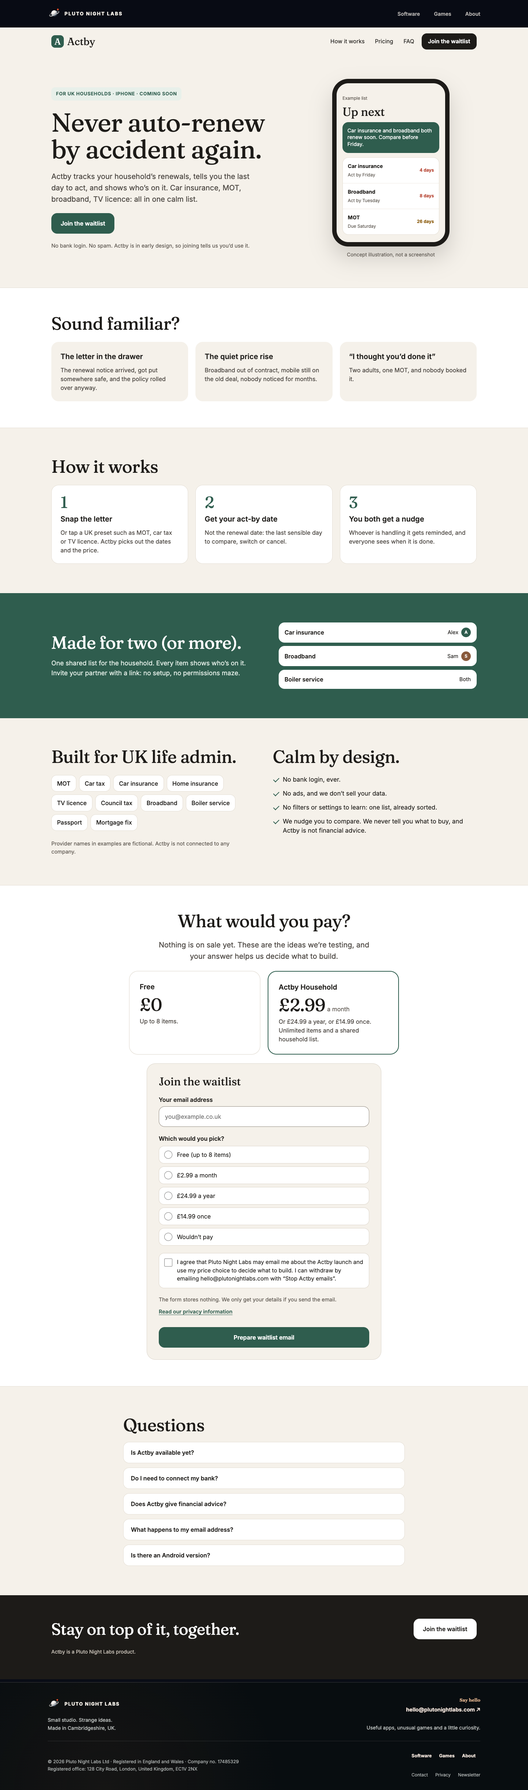
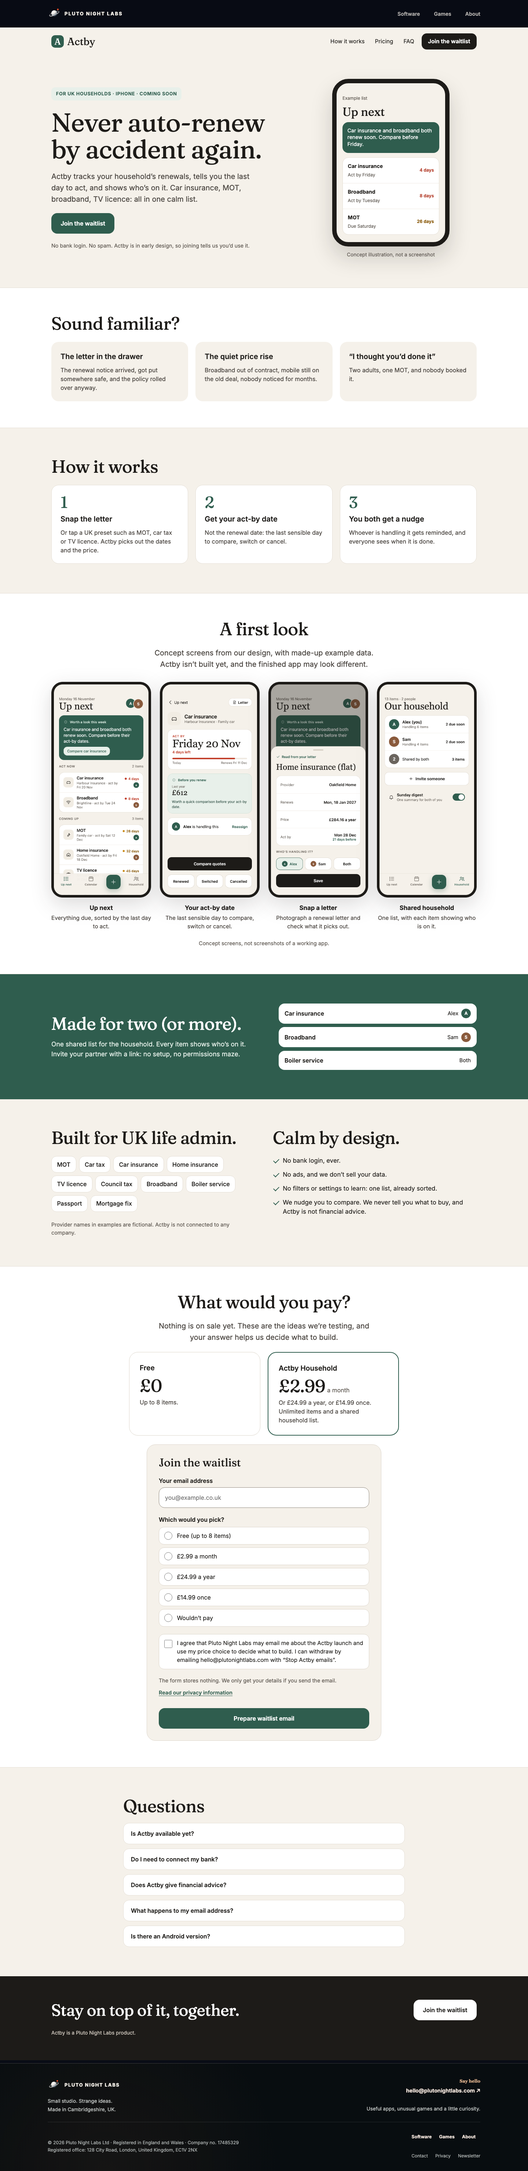
feat: add Actby concept screens to the landing page
Four concept screens (Up next, act-by date, snap a letter, household)
rendered from the owner's design prototype with real brands and example
statistics removed, in a 'A first look' section labelled as concept
screens with made-up data. Prototype source kept in docs/actby-concept/
as provenance; scripts/actby-concept-screens.mjs regenerates the images.
QA script now uses the cached headless shell so it no longer opens real
Mail drafts. Not deployed.

diff --git a/docs/actby-concept/prototype-source.html b/docs/actby-concept/prototype-source.html
@@ -1,0 +1,270 @@
+<!DOCTYPE html>
+<!-- Provenance: copy of the owner's Claude artifact "Actby — Clickable Prototype" (https://claude.ai/artifact/QCkFew1jjdgZ7UNWwXKLSs), version 1794833743-83df, copied 2026-11-16.
+     Design reference only. NOT production code and NOT served by the site. All data is made up.
+     scripts/actby-concept-screens.mjs renders the website concept screens from a sanitised in-memory copy of this file
+     (real car model and calendar brand removed, example statistics hidden, local fonts). -->
+<html lang="en-GB">
+<head>
+<meta charset="utf-8">
+<meta name="viewport" content="width=device-width, initial-scale=1">
+<title>Actby — Clickable Prototype</title>
+<link rel="stylesheet" href="https://fonts.googleapis.com/css2?family=Instrument+Serif&family=Inter:wght@400;500;600;700&display=swap">
+<style id="st">
+*{box-sizing:border-box}
+body{margin:0;min-height:100vh;background:#E9E4DB;font-family:Inter,system-ui,sans-serif;color:#1D1B18;display:flex;flex-direction:column;align-items:center;gap:16px;padding:24px 12px}
+.intro{max-width:390px;text-align:center;font-size:14px;color:#4A4540;line-height:1.45}
+.intro b{color:#1D1B18}
+.themes{display:flex;gap:8px;flex-wrap:wrap;justify-content:center}
+.tbtn{font:600 13px Inter,system-ui,sans-serif;padding:10px 14px;border-radius:12px;border:1px solid #CFC9BF;background:#fff;color:#1D1B18;cursor:pointer;display:flex;align-items:center;gap:8px;min-height:44px}
+.tbtn.on{border:2px solid #1D1B18}
+.sw{width:14px;height:14px;border-radius:50%;display:inline-block}
+.phone{width:390px;max-width:100%;height:844px;background:#F5F1EA;border-radius:44px;border:10px solid #1D1B18;position:relative;overflow:hidden;box-shadow:0 30px 60px rgba(29,27,24,.18)}
+.scr{position:absolute;inset:0;overflow-y:auto;padding:48px 20px 110px;display:flex;flex-direction:column;gap:16px}
+.serif{font-family:'Instrument Serif',Georgia,serif;font-weight:400}
+.muted{color:#6B655E}
+h1{margin:0;font-size:38px;line-height:1.05}
+.card{background:#fff;border:1px solid #E4DED4;border-radius:20px}
+button{font-family:inherit;color:inherit}
+.row{all:unset;box-sizing:border-box;display:flex;align-items:center;gap:12px;width:100%;min-height:68px;padding:12px 16px;cursor:pointer}
+.row+.row{border-top:1px solid #EFEAE2}
+.row:focus-visible,.btn:focus-visible,.chip:focus-visible,.tab:focus-visible{outline:2px solid #2F5D4E;outline-offset:2px}
+.ic{width:40px;height:40px;border-radius:12px;background:#F1ECE3;display:flex;align-items:center;justify-content:center;flex:none}
+.dot{width:8px;height:8px;border-radius:50%;flex:none;display:inline-block}
+.av{border-radius:50%;display:inline-flex;align-items:center;justify-content:center;font-weight:600;color:#fff;flex:none}
+.label{font-size:12px;font-weight:600;letter-spacing:.06em;text-transform:uppercase;color:#6B655E}
+.chip{all:unset;box-sizing:border-box;display:inline-flex;align-items:center;gap:6px;height:38px;padding:0 14px;border-radius:14px;background:#fff;border:1px solid #E4DED4;font-size:14px;font-weight:500;cursor:pointer}
+.btn{all:unset;box-sizing:border-box;display:flex;align-items:center;justify-content:center;gap:8px;height:52px;border-radius:16px;font-size:16px;font-weight:600;cursor:pointer;text-align:center}
+.ink{background:#1D1B18;color:#fff}
+.line{background:#fff;border:1px solid #DCD5CA}
+.sel{background:#E8F0EA;color:#2F5D4E;border:1.5px solid #2F5D4E}
+.tabbar{position:absolute;left:0;right:0;bottom:0;height:84px;background:rgba(245,241,234,.97);border-top:1px solid #E4DED4;display:flex;justify-content:space-around;align-items:flex-start;padding-top:8px;z-index:5}
+.tab{all:unset;display:flex;flex-direction:column;align-items:center;gap:3px;font-size:11px;font-weight:500;color:#6B655E;min-width:72px;min-height:44px;cursor:pointer}
+.tab.on{color:#2F5D4E}
+.add{all:unset;width:56px;height:56px;border-radius:18px;background:#2F5D4E;display:flex;align-items:center;justify-content:center;margin-top:-4px;box-shadow:0 8px 20px rgba(47,93,78,.3);cursor:pointer}
+.back{all:unset;display:flex;align-items:center;gap:4px;font-size:15px;min-height:44px;cursor:pointer}
+.overlay{position:absolute;inset:0;background:rgba(29,27,24,.35);z-index:10;display:flex;align-items:flex-end;animation:fade .2s}
+.sheet{width:100%;background:#F5F1EA;border-radius:28px 28px 0 0;padding:12px 20px 30px;display:flex;flex-direction:column;gap:16px;max-height:92%;overflow-y:auto;animation:up .25s ease-out}
+.grab{width:40px;height:5px;border-radius:3px;background:#D6CFC4;align-self:center}
+.toast{position:absolute;left:20px;right:20px;bottom:100px;background:#1D1B18;color:#fff;border-radius:16px;padding:14px 16px;font-size:14px;z-index:20;display:flex;gap:10px;align-items:center;animation:up .25s}
+@keyframes up{from{transform:translateY(40px);opacity:0}to{transform:none;opacity:1}}
+@keyframes fade{from{opacity:0}to{opacity:1}}
+.scan{height:4px;border-radius:2px;background:#E4DED4;overflow:hidden}
+.scan i{display:block;height:100%;width:40%;background:#2F5D4E;animation:sc 1s linear infinite}
+@keyframes sc{from{transform:translateX(-100%)}to{transform:translateX(250%)}}
+.calgrid{display:grid;grid-template-columns:repeat(7,minmax(0,1fr));gap:2px}
+.day{all:unset;display:flex;flex-direction:column;align-items:center;justify-content:center;gap:3px;min-height:46px;border-radius:14px;font-size:15px;cursor:pointer}
+.switch{width:48px;height:28px;border-radius:14px;background:#2F5D4E;position:relative;border:none;cursor:pointer;flex:none}
+.switch span{position:absolute;right:3px;top:3px;width:22px;height:22px;border-radius:50%;background:#fff;transition:.2s}
+.switch.off{background:#CFC9BF}.switch.off span{right:23px}
+</style>
+</head>
+<body>
+<p class="intro"><b>Actby prototype.</b> Tap an item, mark it done, add something with <b>+</b>, try the calendar and household tabs. All data is made up.</p>
+<div class="themes" role="group" aria-label="Appearance">
+<button class="tbtn on" data-theme="paper"><span class="sw" style="background:#2F5D4E"></span>Light</button>
+<button class="tbtn" data-theme="midnight"><span class="sw" style="background:#E9C877;box-shadow:inset 0 0 0 4px #14161B"></span>Dark</button>
+</div>
+<div class="phone" id="phone" aria-live="polite"></div>
+<script>
+const TODAY = new Date(2026,10,16);
+const DAY = 864e5;
+const C = {red:'#C2412D', amb:'#C98A1B', ambText:'#8A5A0B', grn:'#4F8A63', moss:'#2F5D4E'};
+const PEOPLE = {A:{name:'Alex',col:'#2F5D4E'}, S:{name:'Sam',col:'#8A5A3C'}, B:{name:'Both',col:'#6B655E'}};
+const ICONS = {
+ car:'<path d="M5 17h14M6 17v2M18 17v2M4 13l2-5h12l2 5v4H4z"/>',
+ wifi:'<path d="M3 9a14 14 0 0 1 18 0M6 12.5a9 9 0 0 1 12 0M9 16a4 4 0 0 1 6 0"/><circle cx="12" cy="19" r=".8"/>',
+ wrench:'<path d="M14 6a4 4 0 0 0 5 5l-8 8a2 2 0 0 1-3-3l8-8a4 4 0 0 0-2-2z"/>',
+ home:'<path d="M4 11l8-6 8 6v8H4z"/><path d="M10 19v-5h4v5"/>',
+ tv:'<rect x="3" y="6" width="18" height="12" rx="2"/><path d="M9 3l3 3 3-3"/>',
+ bolt:'<path d="M13 3L5 14h6l-1 7 8-11h-6z"/>',
+ phone:'<rect x="7" y="3" width="10" height="18" rx="2"/><path d="M11 18h2"/>',
+ passport:'<rect x="5" y="3" width="14" height="18" rx="2"/><circle cx="12" cy="10" r="3"/><path d="M9 16h6"/>',
+ flame:'<path d="M12 3c3 4 5 6 5 10a5 5 0 0 1-10 0c0-2 1-3 2-4 0 2 1 3 2 3 0-3-1-5 1-9z"/>',
+ bank:'<path d="M3 10l9-6 9 6M5 10v8M19 10v8M9 10v8M15 10v8M3 20h18"/>',
+ paw:'<circle cx="8" cy="8" r="1.6"/><circle cx="16" cy="8" r="1.6"/><circle cx="5" cy="13" r="1.6"/><circle cx="19" cy="13" r="1.6"/><path d="M12 12c3 0 5 4 4 6s-6 2-8 0 1-6 4-6z"/>',
+ council:'<path d="M4 20h16M6 20V10M18 20V10M10 20v-6h4v6M3 10l9-6 9 6z"/>',
+ shield:'<path d="M12 3l7 3v6c0 4-3 7-7 9-4-2-7-5-7-9V6z"/>',
+ camera:'<path d="M4 8h3l2-2h6l2 2h3v11H4z"/><circle cx="12" cy="13" r="3.5"/>',
+ plus:'<path d="M12 5v14M5 12h14"/>', cal:'<rect x="4" y="5" width="16" height="15" rx="2"/><path d="M4 10h16M9 3v4M15 3v4"/>',
+ people:'<circle cx="9" cy="8" r="3"/><circle cx="17" cy="9" r="2.5"/><path d="M3 19c0-3 3-5 6-5s6 2 6 5M15 14.5c2.5 0 6 1.3 6 4.5"/>',
+ list:'<path d="M9 6h11M9 12h11M9 18h11"/><circle cx="4.5" cy="6" r=".9"/><circle cx="4.5" cy="12" r=".9"/><circle cx="4.5" cy="18" r=".9"/>',
+ back:'<path d="M15 5l-7 7 7 7"/>', chev:'<path d="M9 5l7 7-7 7"/>', check:'<path d="M5 12l5 5 9-10"/>',
+ spark:'<path d="M12 3v4M12 17v4M3 12h4M17 12h4M6 6l2.5 2.5M15.5 15.5L18 18M6 18l2.5-2.5M15.5 8.5L18 6"/>',
+ lock:'<rect x="5" y="11" width="14" height="9" rx="2"/><path d="M8 11V8a4 4 0 0 1 8 0v3"/>',
+ bell:'<path d="M6 16V11a6 6 0 0 1 12 0v5l2 2H4z"/><path d="M10 20a2 2 0 0 0 4 0"/>',
+ close:'<path d="M6 6l12 12M18 6L6 18"/>', link:'<path d="M10 14a4 4 0 0 0 6 0l3-3a4 4 0 0 0-6-6l-1 1M14 10a4 4 0 0 0-6 0l-3 3a4 4 0 0 0 6 6l1-1"/>',
+ doc:'<path d="M6 3h8l4 4v14H6z"/><path d="M14 3v4h4M9 12h6M9 16h6"/>'
+};
+const ic=(n,c='#1D1B18',s=20)=>`<svg width="${s}" height="${s}" viewBox="0 0 24 24" fill="none" stroke="${c}" stroke-width="1.6" stroke-linecap="round" stroke-linejoin="round" aria-hidden="true">${ICONS[n]}</svg>`;
+const av=(k,s=24)=>`<span class="av" style="background:${PEOPLE[k].col};width:${s}px;height:${s}px;font-size:${Math.round(s*.42)}px">${k==='B'?'2':k}</span>`;
+const d=(y,m,dd)=>new Date(y,m-1,dd);
+const fmt=(dt,o={weekday:'short',day:'numeric',month:'short'})=>dt.toLocaleDateString('en-GB',o);
+const days=dt=>Math.round((dt-TODAY)/DAY);
+const money=n=>'£'+n.toLocaleString('en-GB',{minimumFractionDigits:n%1?2:0,maximumFractionDigits:2});
+
+let items=[
+ {id:1,ic:'car',name:'Car insurance',prov:'Harbour Insurance',note:'Ford Fiesta',renew:d(2026,12,11),actBy:d(2026,11,20),last:612,quote:689,who:'A'},
+ {id:2,ic:'wifi',name:'Broadband',prov:'Brightline',note:'Contract ends',renew:d(2026,11,30),actBy:d(2026,11,24),last:474,quote:540,who:'S'},
+ {id:3,ic:'wrench',name:'MOT',prov:'Ford Fiesta',note:'Book a garage',renew:d(2027,1,11),actBy:d(2026,12,12),who:'A'},
+ {id:4,ic:'home',name:'Home insurance',prov:'Oakfield Home',note:'Buildings & contents',renew:d(2027,1,8),actBy:d(2026,12,18),last:268,who:'S'},
+ {id:5,ic:'tv',name:'TV licence',prov:'Annual licence',note:'',renew:d(2027,1,31),actBy:d(2026,12,31),last:174.5,who:'B'},
+ {id:6,ic:'flame',name:'Boiler service',prov:'Annual service',note:'',renew:d(2027,2,10),actBy:d(2027,1,27),who:'B'},
+ {id:7,ic:'phone',name:'Mobile (Alex)',prov:'Northwave Mobile',note:'',renew:d(2027,3,4),actBy:d(2027,2,4),last:216,who:'A'},
+ {id:8,ic:'bolt',name:'Energy',prov:'Lumen Energy',note:'Fixed tariff ends',renew:d(2027,4,1),actBy:d(2027,3,4),who:'S'},
+ {id:9,ic:'car',name:'Car tax',prov:'Ford Fiesta',note:'',renew:d(2027,5,1),actBy:d(2027,4,24),who:'A'},
+ {id:10,ic:'passport',name:'Passport (Sam)',prov:'Expires',note:'',renew:d(2027,9,14),actBy:d(2027,6,14),who:'S'},
+ {id:11,ic:'paw',name:'Pet insurance',prov:'Willow Pet Cover',note:'',renew:d(2027,6,2),actBy:d(2027,5,12),last:221,who:'A'},
+ {id:12,ic:'council',name:'Council tax',prov:'Annual bill',note:'',renew:d(2027,4,1),actBy:d(2027,3,20),who:'B'},
+ {id:13,ic:'shield',name:'Breakdown cover',prov:'Roadside Plus',note:'',renew:d(2027,7,9),actBy:d(2027,6,18),last:96,who:'A'},
+];
+let state={tab:'home',view:null,sheet:null,showClear:false,calDay:20,digest:true,scan:null,toast:null,nextId:20};
+const urg=it=>{const n=days(it.actBy);return n<=14?'red':n<=45?'amb':'grn'};
+const col=it=>({red:C.red,amb:C.amb,grn:C.grn})[urg(it)];
+const tcol=it=>({red:C.red,amb:C.ambText,grn:C.grn})[urg(it)];
+const left=it=>{const n=days(it.actBy);return n<=0?'Today':n===1?'1 day':n+' days'};
+
+function row(it){return `<button class="row" data-open="${it.id}"><span class="ic">${ic(it.ic)}</span>
+<span style="flex:1;min-width:0;display:flex;flex-direction:column;gap:3px;text-align:left"><span style="font-size:16px;font-weight:600">${it.name}</span><span class="muted" style="font-size:13px">${it.prov} · act by ${fmt(it.actBy)}</span></span>
+<span style="display:flex;flex-direction:column;align-items:flex-end;gap:6px"><span style="display:flex;align-items:center;gap:6px;font-size:13px;font-weight:600;color:${tcol(it)}"><span class="dot" style="background:${col(it)}"></span>${left(it)}</span>${av(it.who,22)}</span></button>`}
+
+function tabbar(){const t=(k,i,l)=>`<button class="tab ${state.tab===k?'on':''}" data-tab="${k}">${ic(i,state.tab===k?C.moss:'#6B655E',24)}<span>${l}</span></button>`;
+ return `<nav class="tabbar" aria-label="Main">${t('home','list','Up next')}${t('cal','cal','Calendar')}<button class="add" data-sheet="add" aria-label="Add something">${ic('plus','#fff',26)}</button>${t('house','people','Household')}</nav>`}
+
+function home(){
+ const s=[...items].sort((a,b)=>a.actBy-b.actBy);
+ const red=s.filter(i=>urg(i)==='red'),amb=s.filter(i=>urg(i)==='amb'),grn=s.filter(i=>urg(i)==='grn');
+ const pricey=red.filter(i=>i.last);const tot=pricey.reduce((a,i)=>a+i.last,0);
+ const prompt=pricey.length?`<section class="card" style="background:${C.moss};border:none;padding:18px;color:#fff;display:flex;flex-direction:column;gap:10px">
+ <div style="display:flex;align-items:center;gap:8px;font-size:13px;font-weight:600;color:#CFE2D8">${ic('spark','#CFE2D8',16)}Worth a look this week</div>
+ <div style="font-size:17px;line-height:1.35">${pricey.map(i=>i.name.toLowerCase()).join(' and ').replace(/^./,c=>c.toUpperCase())} cost you <span class="serif" style="font-size:24px">${money(tot)}</span> last year. Compare before their act-by dates.</div>
+ <div style="display:flex;gap:8px"><button class="chip" style="background:#E8F0EA;border:none;color:${C.moss};height:34px" data-open="${pricey[0].id}">Compare ${pricey[0].name.toLowerCase()}</button></div></section>`:
+ `<section class="card" style="padding:18px;display:flex;gap:12px;align-items:center">${ic('check',C.grn,24)}<span style="font-size:15px">Nothing urgent. Enjoy your week.</span></section>`;
+ const grp=(lbl,arr)=>arr.length?`<div style="display:flex;justify-content:space-between;align-items:baseline"><span class="label">${lbl}</span><span class="muted" style="font-size:13px">${arr.length} item${arr.length>1?'s':''}</span></div><div class="card">${arr.map(row).join('')}</div>`:'';
+ const firstClear=grn[0]?fmt(grn[0].actBy,{month:'long'}):'';
+ return `<div class="scr"><header style="display:flex;justify-content:space-between;align-items:center"><div><div class="muted" style="font-size:14px">Monday 16 November</div><h1 class="serif">Up next</h1></div><div style="display:flex">${av('A',36)}<span style="margin-left:-8px;border:2px solid #F5F1EA;border-radius:50%;display:flex">${av('S',36)}</span></div></header>
+ ${prompt}${grp('Act now',red)}${grp('Coming up',amb)}
+ ${grn.length?(state.showClear?grp('All clear',grn):`<button class="row card" data-clear style="min-height:52px;justify-content:space-between"><span style="display:flex;align-items:center;gap:10px;font-size:15px;font-weight:500"><span class="dot" style="background:${C.grn}"></span>${grn.length} more, all clear until ${firstClear}</span>${ic('chev','#6B655E',18)}</button>`):''}
+ </div>${tabbar()}`}
+
+function detail(it){
+ const n=days(it.actBy);const total=Math.max(days(it.renew),1);const pct=Math.min(100,Math.max(4,(1-n/total)*100));
+ const diff=it.quote&&it.last?Math.round((it.quote-it.last)/it.last*100):null;
+ const save=it.last?`<section class="card" style="padding:16px;background:#E8F0EA;border-color:#D3E3D9;display:flex;flex-direction:column;gap:10px">
+ <div style="display:flex;align-items:center;gap:8px;font-size:13px;font-weight:600;color:${C.moss}">${ic('spark',C.moss,16)}Before you renew</div>
+ <div style="display:flex;gap:24px"><div><div class="muted" style="font-size:12px">Last year</div><div class="serif" style="font-size:28px">${money(it.last)}</div></div>${it.quote?`<div><div class="muted" style="font-size:12px">Renewal quote</div><div class="serif" style="font-size:28px">${money(it.quote)} <span style="font-family:Inter;font-size:13px;font-weight:600;color:${diff>0?C.red:C.grn}">${diff>0?'+':''}${diff}%</span></div></div>`:''}</div>
+ <div style="font-size:14px;line-height:1.4;color:#24453A">${diff>0?'Your renewal quote is higher than last year. Worth getting a couple of quotes before your act-by date.':'Worth a quick comparison before your act-by date.'}</div></section>`:'';
+ return `<div class="scr" style="padding-bottom:28px"><div style="display:flex;justify-content:space-between;align-items:center"><button class="back" data-back>${ic('back','#1D1B18',22)}Up next</button><span class="chip" style="height:32px;cursor:default">${ic('doc','#1D1B18',16)}Letter</span></div>
+ <div style="display:flex;gap:14px;align-items:center"><span class="ic" style="width:52px;height:52px;border-radius:16px">${ic(it.ic,'#1D1B18',26)}</span><div><div style="font-size:20px;font-weight:600">${it.name}</div><div class="muted" style="font-size:14px">${it.prov}${it.note?' · '+it.note:''}</div></div></div>
+ <section class="card" style="padding:18px;display:flex;flex-direction:column;gap:14px"><div><div class="label" style="color:${tcol(it)}">Act by</div><div class="serif" style="font-size:42px;line-height:1">${fmt(it.actBy,{weekday:'long',day:'numeric',month:'short'})}</div><div style="font-size:14px;font-weight:600;color:${tcol(it)};margin-top:4px">${left(it)} left</div></div>
+ <div><div style="height:6px;border-radius:3px;background:#EFEAE2;position:relative"><div style="position:absolute;left:0;top:0;bottom:0;width:${pct}%;background:${col(it)};border-radius:3px"></div></div><div style="display:flex;justify-content:space-between;font-size:12px;margin-top:6px" class="muted"><span>Today</span><span>Renews ${fmt(it.renew)}</span></div></div></section>
+ ${save}
+ <div class="card"><button class="row" data-reassign="${it.id}">${av(it.who,32)}<span style="flex:1;font-size:15px;text-align:left">${it.who==='B'?'<b>Both of you</b> are on this':`<b>${PEOPLE[it.who].name}</b> is handling this`}</span><span style="font-size:14px;font-weight:600;color:${C.moss}">Reassign</span></button></div>
+ <div style="flex:1"></div>
+ <button class="btn ink" data-compare="${it.id}">${it.last?'Compare quotes':'Book it'}</button>
+ <div style="display:grid;grid-template-columns:repeat(3,minmax(0,1fr));gap:8px"><button class="btn line" style="font-size:14px" data-done="Renewed">Renewed</button><button class="btn line" style="font-size:14px" data-done="Switched">Switched</button><button class="btn line" style="font-size:14px" data-done="Cancelled">Cancelled</button></div></div>`}
+
+function cal(){
+ const first=new Date(2026,10,1).getDay();const blanks=(first+6)%7;let cells='';
+ for(let i=0;i<blanks;i++)cells+='<span></span>';
+ for(let dd=1;dd<=30;dd++){const its=items.filter(i=>i.actBy.getFullYear()===2026&&i.actBy.getMonth()===10&&i.actBy.getDate()===dd);
+  const sel=dd===state.calDay,today=dd===16;
+  cells+=`<button class="day" data-day="${dd}" aria-label="${dd} November${its.length?', '+its.length+' item':''}" style="${sel?'background:#1D1B18;color:#fff;':today?'box-shadow:inset 0 0 0 1.5px '+C.moss+';':''}"><span>${dd}</span>${its.length?`<span class="dot" style="width:6px;height:6px;background:${sel?'#fff':col(its[0])}"></span>`:'<span style="height:6px"></span>'}</button>`}
+ const dayItems=items.filter(i=>i.actBy.getFullYear()===2026&&i.actBy.getMonth()===10&&i.actBy.getDate()===state.calDay);
+ const nextDec=items.filter(i=>i.actBy.getMonth()===11&&i.actBy.getFullYear()===2026).sort((a,b)=>a.actBy-b.actBy);
+ return `<div class="scr"><header style="display:flex;justify-content:space-between;align-items:flex-end"><h1 class="serif">November</h1><span class="muted" style="font-size:14px;padding-bottom:6px">2026</span></header>
+ <div class="card" style="padding:14px 10px"><div class="calgrid" style="margin-bottom:6px">${['M','T','W','T','F','S','S'].map(x=>`<span class="muted" style="text-align:center;font-size:12px;font-weight:600">${x}</span>`).join('')}</div><div class="calgrid">${cells}</div></div>
+ <div class="label">${fmt(new Date(2026,10,state.calDay),{weekday:'long',day:'numeric',month:'long'})}</div>
+ ${dayItems.length?`<div class="card">${dayItems.map(row).join('')}</div>`:`<div class="card" style="padding:16px" ><span class="muted" style="font-size:14px">Nothing due. Tap a day with a dot.</span></div>`}
+ ${nextDec.length?`<div class="label">Next in December</div><div class="card">${nextDec.map(row).join('')}</div>`:''}
+ <div class="row card" style="cursor:default;min-height:52px">${ic('link',C.moss,18)}<span style="flex:1;font-size:14px">Synced to Apple Calendar</span><span class="muted" style="font-size:13px">Both of you</span></div></div>${tabbar()}`}
+
+function house(){
+ const cnt=k=>items.filter(i=>i.who===k).length,soon=k=>items.filter(i=>i.who===k&&urg(i)!=='grn').length;
+ const m=(k,n)=>`<div class="row" style="cursor:default">${av(k,40)}<span style="flex:1;display:flex;flex-direction:column;gap:2px"><span style="font-size:16px;font-weight:600">${n}</span><span class="muted" style="font-size:13px">Handling ${cnt(k)} items</span></span><span style="font-size:14px;font-weight:600">${soon(k)} due soon</span></div>`;
+ return `<div class="scr"><header><div class="muted" style="font-size:14px">${items.length} items · 2 people</div><h1 class="serif">Our household</h1></header>
+ <div class="card">${m('A','Alex (you)')}${m('S','Sam')}<div class="row" style="cursor:default">${av('B',40)}<span style="flex:1;font-size:15px">Shared by both</span><span style="font-size:14px;font-weight:600">${cnt('B')} items</span></div></div>
+ <button class="btn line" data-invite>${ic('plus','#1D1B18',18)}Invite someone</button>
+ <div class="label">This year so far</div>
+ <div style="display:grid;grid-template-columns:repeat(2,minmax(0,1fr));gap:10px"><div class="card" style="padding:16px"><div class="serif" style="font-size:34px">11</div><div class="muted" style="font-size:13px">renewals handled on time</div></div><div class="card" style="padding:16px"><div class="serif" style="font-size:34px">3</div><div class="muted" style="font-size:13px">switched to a new provider</div></div></div>
+ <div class="row card" style="cursor:default;min-height:60px">${ic('bell','#1D1B18',20)}<span style="flex:1;display:flex;flex-direction:column;gap:2px"><span style="font-size:15px;font-weight:600">Sunday digest</span><span class="muted" style="font-size:13px">One summary for both of you</span></span><button class="switch ${state.digest?'':'off'}" role="switch" aria-checked="${state.digest}" aria-label="Sunday digest" data-digest><span></span></button></div></div>${tabbar()}`}
+
+const PRESETS=[['car','Car insurance',21],['wrench','MOT',30],['car','Car tax',14],['home','Home insurance',21],['bolt','Energy',30],['wifi','Broadband',30],['phone','Mobile',30],['tv','TV licence',30],['council','Council tax',14],['flame','Boiler service',21],['passport','Passport',90],['paw','Pet insurance',21],['shield','Breakdown',21],['bank','Mortgage fix',180]];
+function addSheet(){return `<div class="overlay" data-dismiss><div class="sheet" role="dialog" aria-label="Add something"><div class="grab"></div>
+ <div style="display:flex;justify-content:space-between;align-items:center"><h2 class="serif" style="margin:0;font-size:32px">Add something</h2><button class="back" data-close aria-label="Close">${ic('close','#1D1B18',22)}</button></div>
+ <button class="btn" data-snap style="height:auto;background:#1D1B18;border-radius:22px;padding:20px;justify-content:flex-start;gap:16px"><span style="width:56px;height:56px;border-radius:16px;background:${C.moss};display:flex;align-items:center;justify-content:center">${ic('camera','#fff',28)}</span><span style="display:flex;flex-direction:column;gap:4px;color:#fff;text-align:left"><span style="font-size:18px">Snap a letter</span><span style="font-size:14px;font-weight:400;color:#CFC9BF">We'll read the dates and price for you</span></span></button>
+ <div class="label">Or pick one</div><div style="display:flex;flex-wrap:wrap;gap:8px">${PRESETS.map((p,i)=>`<button class="chip" data-preset="${i}">${ic(p[0],'#1D1B18',16)}${p[1]}</button>`).join('')}</div></div></div>`}
+
+function confirmSheet(){const s=state.scan;
+ if(s.reading)return `<div class="overlay"><div class="sheet" style="min-height:360px;justify-content:center;align-items:center;text-align:center"><div style="width:120px;height:150px;border-radius:12px;background:#fff;border:1px solid #E4DED4;padding:12px;display:flex;flex-direction:column;gap:7px;transform:rotate(-3deg)" aria-hidden="true"><div style="height:8px;width:60%;background:${C.moss};border-radius:2px"></div><div style="height:4px;background:#E4DED4"></div><div style="height:4px;background:#E4DED4"></div><div style="height:4px;width:70%;background:#E4DED4"></div></div><div style="font-size:16px;font-weight:600">Reading your letter…</div><div class="scan" style="width:160px"><i></i></div></div></div>`;
+ return `<div class="overlay"><div class="sheet" role="dialog" aria-label="Check and save"><div class="grab"></div>
+ <div style="display:flex;align-items:center;gap:6px;font-size:13px;font-weight:600;color:${C.moss}">${ic('check',C.moss,16)}${s.fromSnap?'Read from your letter':'Pre-filled for you'}</div>
+ <h2 class="serif" style="margin:0;font-size:32px;line-height:1.05">${s.name}</h2>
+ <div class="card">${[['Provider',s.prov],['Renews',fmt(s.renew,{weekday:'short',day:'numeric',month:'short',year:'numeric'})],['Price',s.last?money(s.last)+' a year':'Add later'],['Act by',fmt(s.actBy)+`<div style="font-size:13px;font-weight:600;color:${C.moss}">${s.lead} days before</div>`]].map(([l,v])=>`<div class="row" style="cursor:default;justify-content:space-between"><span class="muted" style="font-size:14px">${l}</span><span style="font-size:15px;font-weight:600;text-align:right">${v}</span></div>`).join('')}</div>
+ <div class="label">Who's handling it?</div>
+ <div style="display:grid;grid-template-columns:repeat(3,minmax(0,1fr));gap:8px">${['A','S','B'].map(k=>`<button class="btn ${s.who===k?'sel':'line'}" style="height:48px;font-size:14px" data-who="${k}">${k!=='B'?av(k,22):''}${PEOPLE[k].name}</button>`).join('')}</div>
+ <button class="btn ink" data-save>Save</button></div></div>`}
+
+function render(){
+ const p=document.getElementById('phone');let h='';
+ if(state.view){const it=items.find(i=>i.id===state.view);h=it?detail(it):home()}
+ else h=state.tab==='home'?home():state.tab==='cal'?cal():house();
+ if(state.sheet==='add')h+=addSheet();
+ if(state.sheet==='confirm')h+=confirmSheet();
+ if(state.sheet==='compare')h+=`<div class="overlay" data-dismiss><div class="sheet" role="dialog"><div class="grab"></div><h2 class="serif" style="margin:0;font-size:30px">Compare quotes</h2><p style="margin:0;line-height:1.5;color:#4A4540">In the real app this opens your chosen comparison site with your details ready. Actby never recommends a provider.</p><button class="btn ink" data-close>Got it</button></div></div>`;
+ if(state.sheet==='invite')h+=`<div class="overlay" data-dismiss><div class="sheet" role="dialog"><div class="grab"></div><h2 class="serif" style="margin:0;font-size:30px">Invite to your household</h2><div class="card" style="padding:16px;font-size:15px;word-break:break-all">actby.app/join/7Q4-OAK</div><p style="margin:0;color:#4A4540">Send this link. They'll see the same list straight away.</p><button class="btn ink" data-close>Done</button></div></div>`;
+ if(state.toast&&!state.sheet)h+=`<div class="toast">${ic('check','#fff',18)}<span>${state.toast}</span></div>`;
+ p.innerHTML=themed(h);
+}
+function toast(msg){state.toast=msg;render();clearTimeout(window._t);window._t=setTimeout(()=>{state.toast=null;render()},2600)}
+
+document.getElementById('phone').addEventListener('click',e=>{
+ const t=e.target.closest('[data-open],[data-tab],[data-sheet],[data-back],[data-clear],[data-done],[data-reassign],[data-compare],[data-close],[data-snap],[data-preset],[data-who],[data-save],[data-day],[data-digest],[data-invite],[data-dismiss]');
+ if(!t)return;const ds=t.dataset;
+ if('dismiss' in ds && e.target!==t)return;
+ if(ds.open){state.view=+ds.open;state.sheet=null}
+ else if(ds.tab){state.tab=ds.tab;state.view=null}
+ else if(ds.sheet){state.sheet=ds.sheet}
+ else if('back' in ds){state.view=null}
+ else if('clear' in ds){state.showClear=true}
+ else if(ds.done){const it=items.find(i=>i.id===state.view);const y=new Date(it.renew);y.setFullYear(y.getFullYear()+1);const a=new Date(it.actBy);a.setFullYear(a.getFullYear()+1);it.renew=y;it.actBy=a;if(it.quote){it.last=it.quote;it.quote=null}state.view=null;toast(`${it.name} marked ${ds.done.toLowerCase()}. See you next ${fmt(a,{month:'long'})}.`);return}
+ else if(ds.reassign){const it=items.find(i=>i.id===+ds.reassign);it.who={A:'S',S:'B',B:'A'}[it.who];render();return}
+ else if(ds.compare){state.sheet='compare'}
+ else if('close' in ds||'dismiss' in ds){state.sheet=null}
+ else if('snap' in ds){const r=d(2027,1,18),a=new Date(r-21*DAY);state.scan={reading:true,fromSnap:true,ic:'home',name:'Home insurance (flat)',prov:'Oakfield Home',renew:r,actBy:a,lead:21,last:284.16,who:'A'};state.sheet='confirm';render();setTimeout(()=>{if(state.scan){state.scan.reading=false;render()}},1400);return}
+ else if(ds.preset){const p=PRESETS[+ds.preset];const r=new Date(TODAY.getTime()+120*DAY),a=new Date(r-p[2]*DAY);state.scan={reading:false,fromSnap:false,ic:p[0],name:p[1],prov:'Tap to add provider',renew:r,actBy:a,lead:p[2],last:null,who:'A'};state.sheet='confirm'}
+ else if(ds.who){state.scan.who=ds.who}
+ else if('save' in ds){const s=state.scan;items.push({id:state.nextId++,ic:s.ic,name:s.name,prov:s.prov,note:'',renew:s.renew,actBy:s.actBy,last:s.last,who:s.who});state.sheet=null;state.scan=null;state.tab='home';state.view=null;state.showClear=true;toast(`${s.name} added. ${PEOPLE[s.who].name==='Both'?'You both':PEOPLE[s.who].name} will get a nudge on ${fmt(new Date(s.actBy-7*DAY))}.`);return}
+ else if(ds.day){state.calDay=+ds.day}
+ else if('digest' in ds){state.digest=!state.digest}
+ else if('invite' in ds){state.sheet='invite'}
+ render();
+});
+
+const THEMES={paper:[],
+ harbour:[["#F5F1EA","#F1F4F7"],["#2F5D4E","#1F4E79"],["#CFE2D8","#CFE0F0"],["#E8F0EA","#E3EDF7"],["#D3E3D9","#CADBEC"],["#24453A","#183C5E"],["#1D1B18","#13202B"],["#6B655E","#56636F"],["#E4DED4","#DCE3EA"],["#EFEAE2","#EAEFF4"],["#F1ECE3","#E8EEF4"],["#DCD5CA","#D3DCE4"],["#D6CFC4","#CBD5DF"],["rgba(245,241,234,.97)","rgba(241,244,247,.97)"],["rgba(47,93,78,.3)","rgba(31,78,121,.3)"]],
+ plum:[["#F5F1EA","#F6F2EF"],["#2F5D4E","#5B3A6E"],["#CFE2D8","#E6D6EE"],["#E8F0EA","#F0E8F4"],["#D3E3D9","#E3D3EA"],["#24453A","#43294F"],["#1D1B18","#221B26"],["#6B655E","#695F6C"],["#E4DED4","#E6DDE2"],["#EFEAE2","#F0EAEC"],["#F1ECE3","#F1EAEE"],["#DCD5CA","#DDD2D8"],["#D6CFC4","#D8CCD3"],["rgba(245,241,234,.97)","rgba(246,242,239,.97)"],["rgba(47,93,78,.3)","rgba(91,58,110,.3)"]],
+ midnight:[
+  ["background:#2F5D4E;border:none;padding:18px;color:#fff","background:#2B3A4A;border:none;padding:18px;color:#F2EFE9"],
+  ["background:#E8F0EA;border:none;color:#2F5D4E","background:#E9C877;border:none;color:#14161B"],
+  ["background:#E8F0EA;border-color:#D3E3D9","background:#20232B;border-color:#2E323C"],
+  [".sel{background:#E8F0EA;color:#2F5D4E;border:1.5px solid #2F5D4E}",".sel{background:#2B3A4A;color:#E9C877;border:1.5px solid #E9C877}"],
+  [".ink{background:#1D1B18;color:#fff}",".ink{background:#E9C877;color:#14161B}"],
+  ["background:#1D1B18;color:#fff;","background:#E9C877;color:#14161B;"],
+  ["background:#1D1B18;border-radius:22px","background:#2B3A4A;border-radius:22px"],
+  ["border:10px solid #1D1B18","border:10px solid #000"],
+  ["background:#2F5D4E;width","background:#3E5568;width"],
+  ["stroke=\"#fff\" stroke-width=\"1.6\" stroke-linecap=\"round\" stroke-linejoin=\"round\" aria-hidden=\"true\"><path d=\"M12 5v14M5 12h14\"/>","stroke=\"#14161B\" stroke-width=\"1.6\" stroke-linecap=\"round\" stroke-linejoin=\"round\" aria-hidden=\"true\"><path d=\"M12 5v14M5 12h14\"/>"],
+  ["background:#fff","background:#20232B"],
+  ["#F5F1EA","#14161B"],["#2F5D4E","#E9C877"],["#CFE2D8","#E9C877"],["#24453A","#E8E4DC"],["#1D1B18","#F2EFE9"],["#6B655E","#A8A29A"],["#4A4540","#C9C3BA"],
+  ["#E4DED4","#2E323C"],["#EFEAE2","#2A2D36"],["#F1ECE3","#2A2E38"],["#DCD5CA","#363A45"],["#D6CFC4","#3A3E48"],["#8A5A0B","#E8AE45"],["#C2412D","#F0705A"],
+  ["rgba(245,241,234,.97)","rgba(20,22,27,.97)"],["rgba(47,93,78,.3)","rgba(0,0,0,.45)"]]
+};
+let theme='paper';
+const ORIG_CSS=document.getElementById('st').textContent;
+function themed(str){const m=THEMES[theme];if(!m.length)return str;const toks=[];m.forEach(([a,b],i)=>{const t='@@'+i+'@@';str=str.split(a).join(t);toks.push([t,b])});toks.forEach(([t,b])=>{str=str.split(t).join(b)});return str}
+function setTheme(t){theme=t;const css=themed(ORIG_CSS);document.getElementById('st').textContent=css.replace(/\.intro b\{color:[^}]*\}/,'.intro b{color:#1D1B18}').replace(/body\{([^}]*)background:[^;]*;/,'body{$1background:#E9E4DB;').replace(/\.tbtn\{[^}]*\}/,'.tbtn{font:600 13px Inter,system-ui,sans-serif;padding:10px 14px;border-radius:12px;border:1px solid #CFC9BF;background:#fff;color:#1D1B18;cursor:pointer;display:flex;align-items:center;gap:8px;min-height:44px}').replace(/\.tbtn\.on\{[^}]*\}/,'.tbtn.on{border:2px solid #1D1B18}').replace(/\.intro\{([^}]*)color:[^;]*;/,'.intro{$1color:#4A4540;');document.querySelectorAll('.tbtn').forEach(b=>b.classList.toggle('on',b.dataset.theme===t));render()}
+document.querySelector('.themes').addEventListener('click',e=>{const b=e.target.closest('[data-theme]');if(b)setTheme(b.dataset.theme)});
+try{if(window.matchMedia('(prefers-color-scheme: dark)').matches)setTheme('midnight');else render()}catch(e){render()}
+</script>
+</body>
+</html>
